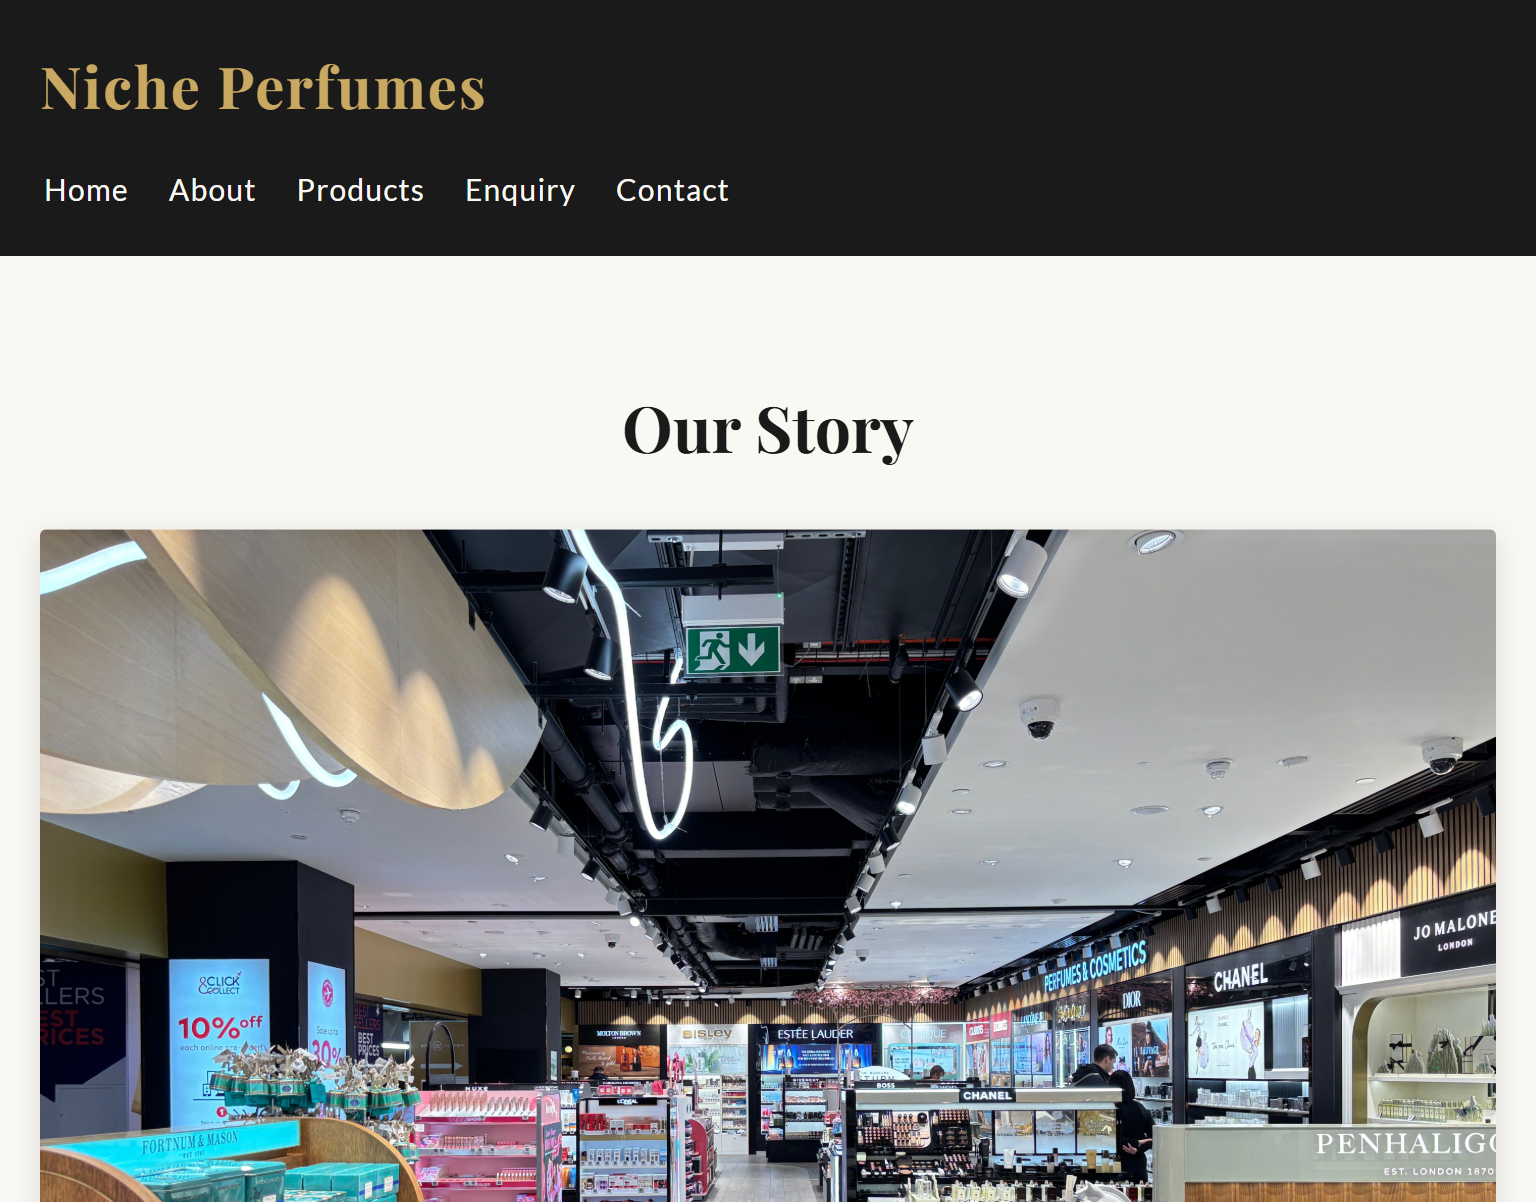
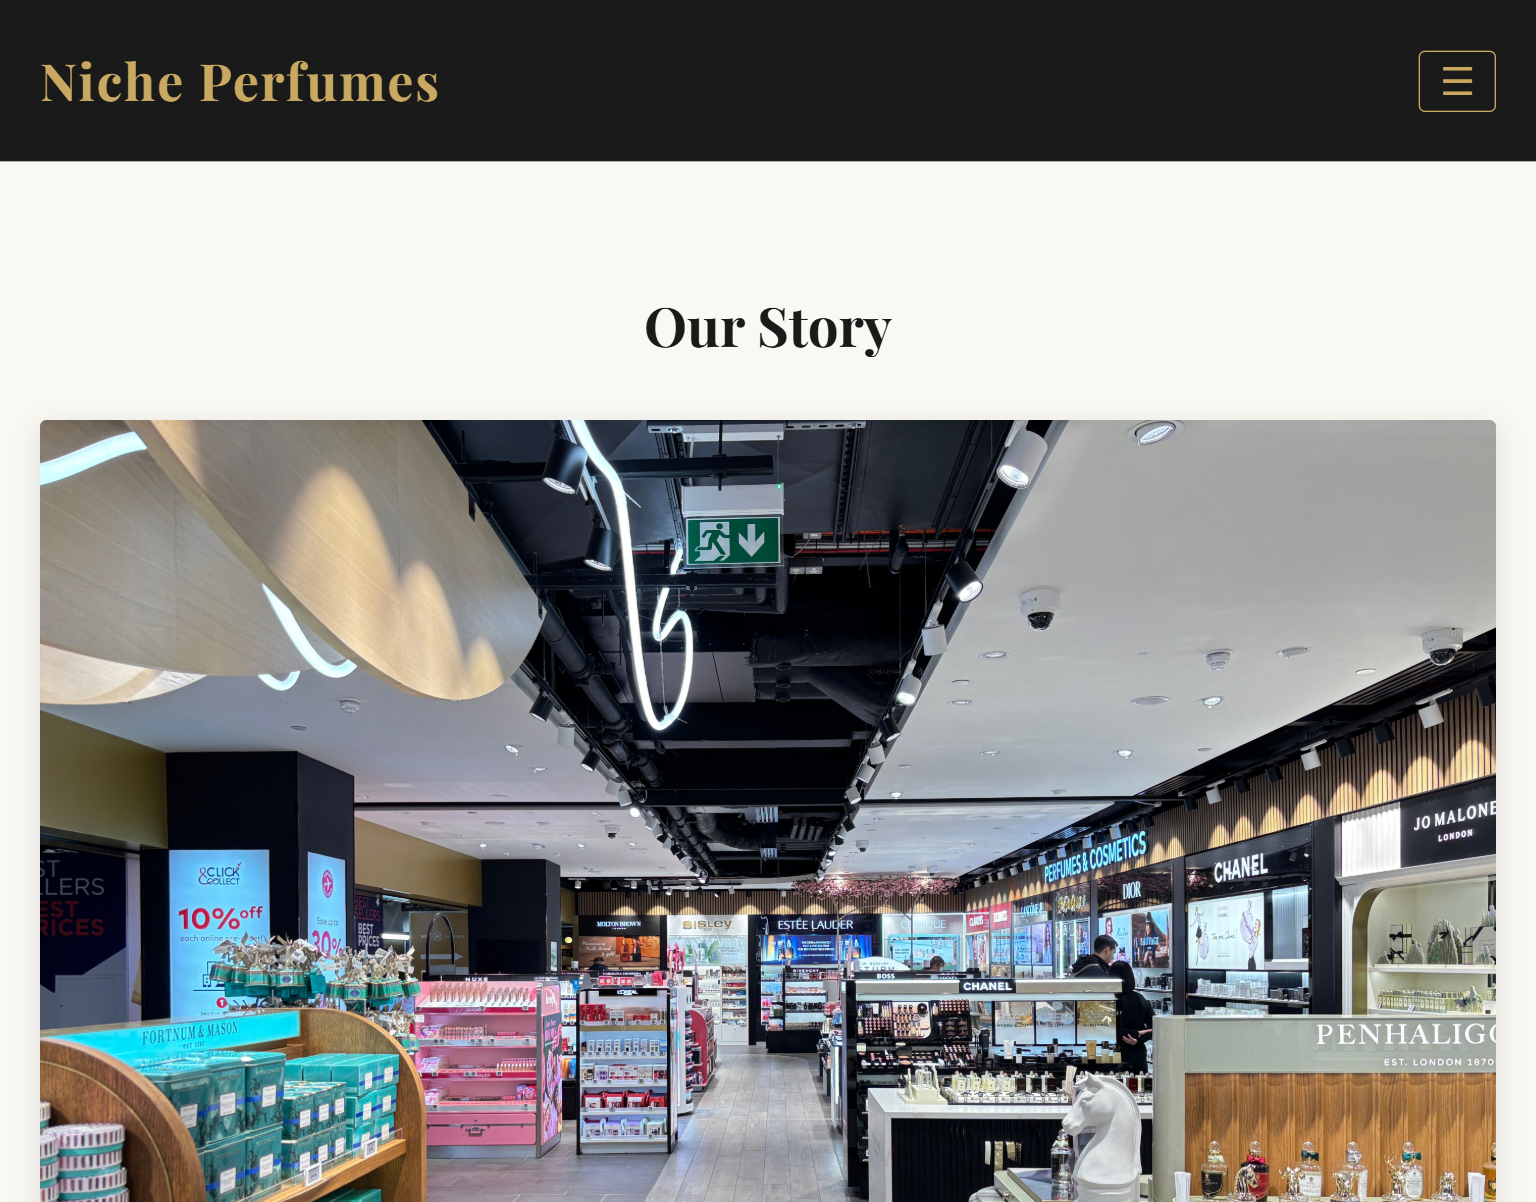
Fix lightbox in Edge, retake responsive screenshots, add Part 3 feature gallery

diff --git a/js/main.js b/js/main.js
@@ -393,14 +393,13 @@ if (galleryImages.length > 0) {
 
     let lastFocusedImage = null;
 
-    // 3. Open: show the largest version of the clicked image
-    //    (the last file listed in its srcset, e.g. the 800px "medium" version)
+        // 3. Open: show the large (800px "medium") version of the clicked image.
+    //    currentSrc is the file the browser is showing; if it is the small
+    //    400px version, swap the folder name to load the medium version.
     function openLightbox(image) {
         lastFocusedImage = image;
-        const sources = image.srcset ? image.srcset.split(',') : [];
-        const largestSource = sources.length > 0
-            ? sources[sources.length - 1].trim().split(' ')[0]
-            : image.src;
+        const shownSource = image.currentSrc || image.src;
+        const largestSource = shownSource.replace('/small/', '/medium/');
         lightboxImage.src = largestSource;
         lightboxImage.alt = image.alt;
         caption.textContent = image.alt;

diff --git a/README.md b/README.md
@@ -24,7 +24,7 @@ This repository contains the full project across three parts:
   for all five pages.
 - **Part 2: Designing the Visuals** — CSS styling and responsive design.
 - **Part 3: Enhancing Functionality and SEO** — corrections from the Part 2 feedback, JavaScript
-  functionality, form validation, SEO, and deployment (in progress).
+  functionality, form validation, SEO, and deployment.
 
 ## Website Goals and Objectives
 - Increase online visibility and generate direct sales enquiries.
@@ -91,8 +91,10 @@ Part 2 covers CSS styling and responsive design:
   400px (mobile), 768px (tablet), 1024px, and 1440px (desktop)
   
 ## Responsive Design Testing
-Screenshots were captured using Chrome DevTools' device toolbar at three widths:
-Desktop (1440px), Tablet (768px), and Mobile (375px).
+Screenshots were captured using the browser's developer tools device toolbar at three widths:
+Desktop (1440px), Tablet (768px), and Mobile (375px). They were retaken on the live website for
+Part 3, so they show the hamburger menu on tablet and mobile, the "Find Your Fragrance" toolbar,
+and the new forms.
 
 ### Home
 | Desktop | Tablet | Mobile |
@@ -120,7 +122,20 @@ Desktop (1440px), Tablet (768px), and Mobile (375px).
 | ![Contact Desktop](docs/contact-desktop.png) | ![Contact Tablet](docs/contact-tablet.png) | ![Contact Mobile](docs/contact-mobile.png) |
 
 ## Part 3 Details
-Part 3 covers functionality, forms, SEO, and deployment. Completed so far:
+Part 3 covers functionality, forms, SEO, and deployment.
+
+### Part 3 Features in Action
+| Hamburger menu (mobile) | Search and filter | Lightbox gallery |
+|---|---|---|
+| ![Hamburger menu open on mobile](docs/features/menu-mobile.png) | ![Product search for "rose"](docs/features/product-search.png) | ![Lightbox showing an enlarged product image](docs/features/lightbox.png) |
+
+| Shopping cart | FAQ accordion | Interactive store map |
+|---|---|---|
+| ![Cart side panel with two fragrances](docs/features/cart.png) | ![FAQ with question 05 open](docs/features/faq.png) | ![Leaflet map with a store popup](docs/features/store-map.png) |
+
+| Enquiry response | Contact email preview |
+|---|---|
+| ![Enquiry form response with price and total](docs/features/enquiry-response.png) | ![Contact form email preview](docs/features/contact-email.png) |
 
 ### Corrections from Part 2 Feedback
 The lecturer's feedback for Part 2 asked for three changes. Each one has been completed and is
@@ -304,6 +319,9 @@ Shared across all five pages:
 | 28 October 2026 | Part 3 | SEO / Images | Renamed the product images with descriptive file names in `images/products/small/` and `images/products/medium/` (e.g. `product-1.jpg` → `woody-perfume.jpg`) and the homepage images (`featured-woody-perfume.jpg`, `featured-fresh-perfume.jpg`), updated `products.html`, `index.html`, and `js/main.js`, improved the homepage `alt` text, and added `loading="lazy"` to images lower down the page. |
 | 28 October 2026 | Part 3 | Images | Replaced the duplicate Fresh / Citrus image (it was the same photo as Woody) with a new Pexels photo of a perfume bottle with a lemon, resized to 400px and 800px. |
 | 28 October 2026 | Part 3 | References | Corrected the product image references: added the missing references for the Versace and Chanel photos and the new citrus photo, and removed the reference for a photo no longer used on the site. Added an SEO section (keyword research, on-page, off-page, and local SEO) and a Deployment section to the README. |
+| 28 October 2026 | Part 3 | Bug Fix | Fixed the lightbox showing a broken image in Microsoft Edge after `loading="lazy"` was added: Edge replaces lazy images with placeholders, so the lightbox now uses the image the browser is actually showing (`currentSrc`) and swaps `/small/` for `/medium/` to load the 800px version. |
+| 29 October 2026 | Part 3 | Testing | Retook all 15 responsive screenshots (Home, About, Products, Enquiry, Contact at 1440px, 768px, and 375px) on the live website, replacing the Part 2 versions in `docs/`. |
+| 29 October 2026 | Part 3 | Documentation | Added a "Part 3 Features in Action" gallery to the README with eight screenshots in `docs/features/` (hamburger menu, product search, lightbox, cart, FAQ, store map, enquiry response, and contact email preview), and marked Part 3 as complete. |
 
 ## References
 Bonafide Research (2025) *South Africa Perfume Market Growth & Demand*. Available at:
